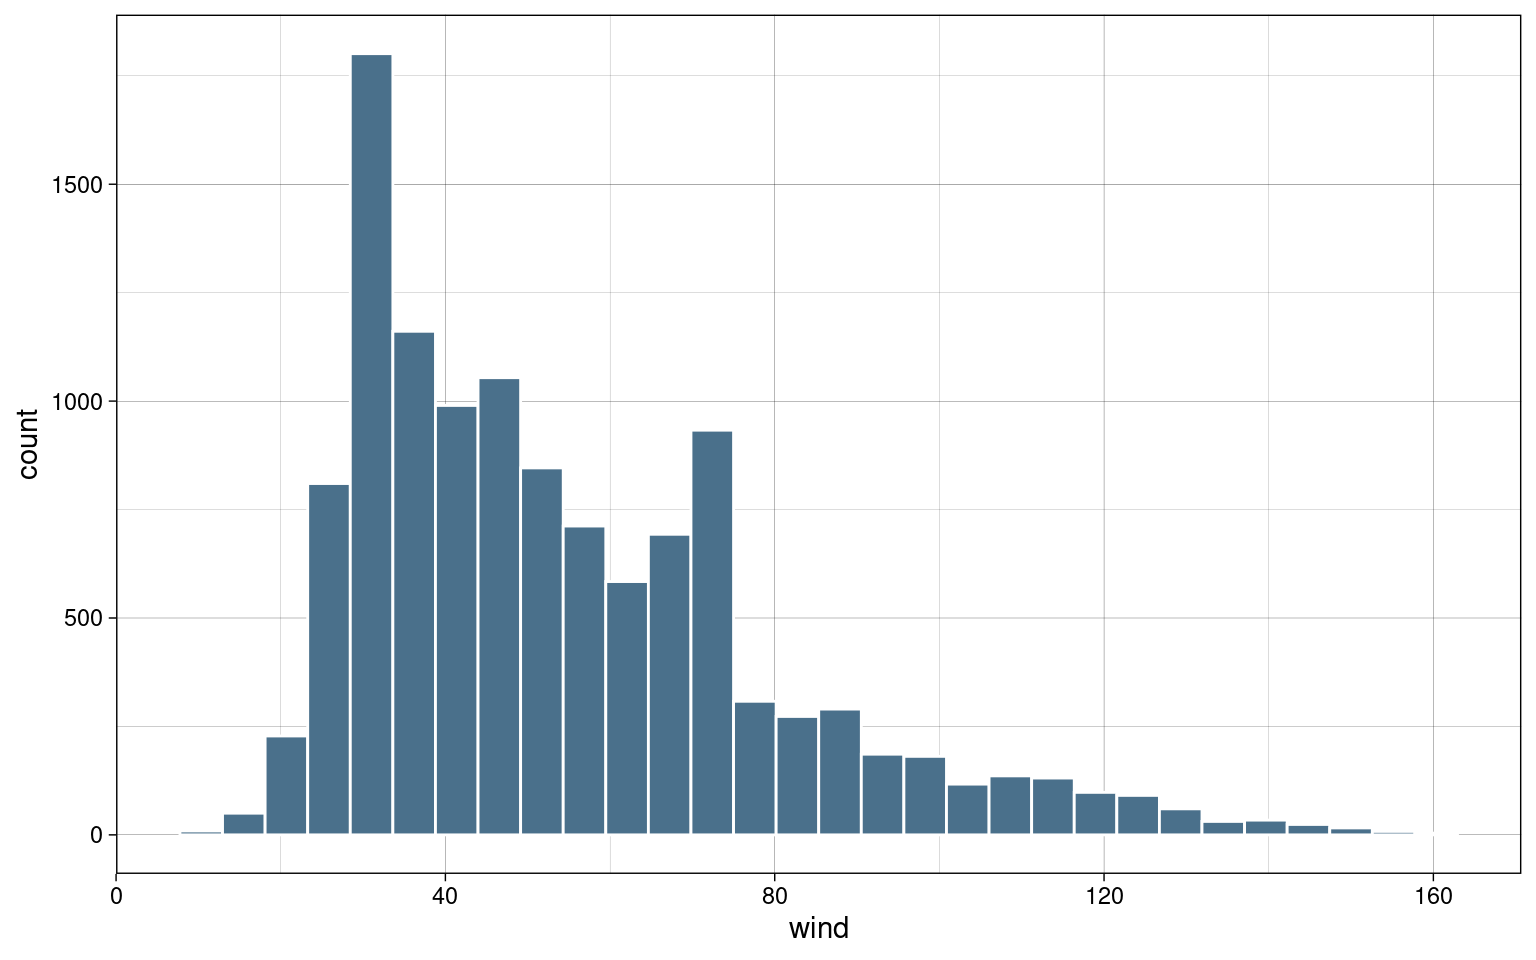
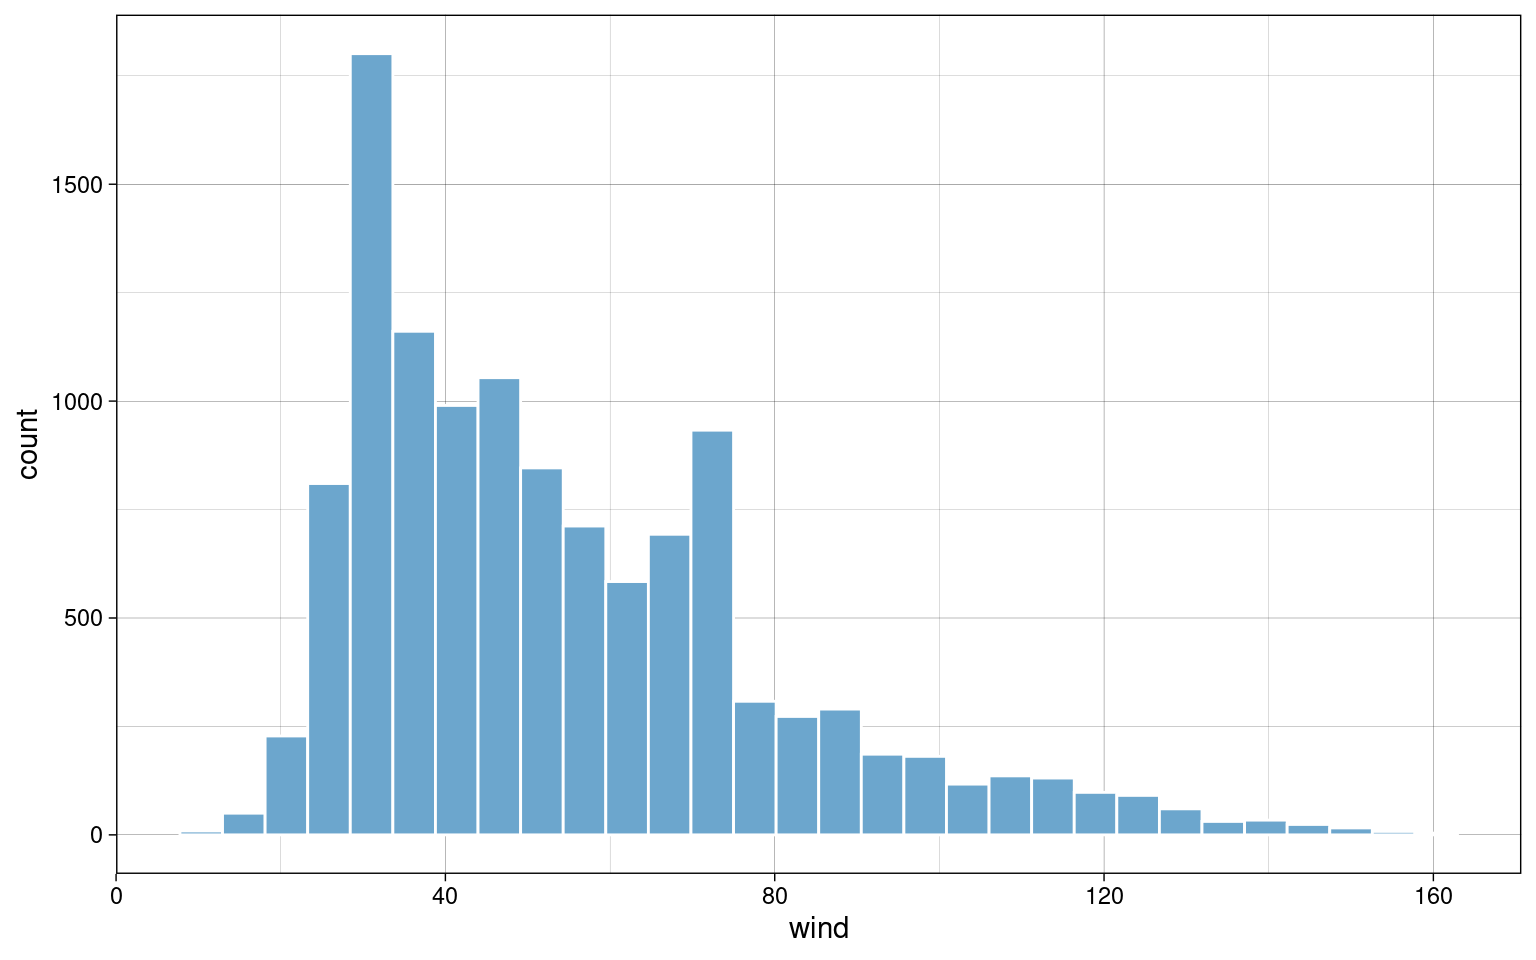
consolidate colors

Changed region(s): [[0.125, 0.0312, 0.9062, 0.875]]

diff --git a/_kompendium-statistik/statistik-2.html b/_kompendium-statistik/statistik-2.html
@@ -931,7 +931,9 @@ class="math inline">\(n = 20\)</span></p>
 ##  [7] -0.42856703  0.20527955  0.49423283  2.90465339  1.26359346 -0.29900925
 ## [13] -0.64765701  0.21053843  0.20078488  0.08848917  0.75222345 -0.39192113
 ## [19]  0.93568330 -0.73753842</code></pre>
-<pre class="r"><code>z.test(samples, mu = 0, sigma.x = 1, conf.level = 0.95, alternative = &quot;greater&quot;)</code></pre>
+<pre class="r"><code># Paket: BSDA
+
+z.test(samples, mu = 0, sigma.x = 1, conf.level = 0.95, alternative = &quot;greater&quot;)</code></pre>
 <pre><code>## 
 ##  One-sample z-Test
 ## 
@@ -1205,7 +1207,9 @@ t.result</code></pre>
 ##  118.1253  101.1334</code></pre>
 <p>Bestimmung der Konfidenzintervalle des Effekts (Cohen’s <span
 class="math inline">\(d\)</span>):</p>
-<pre class="r"><code>ci.smd(t.result$statistic,
+<pre class="r"><code># Paket: MBESS
+
+ci.smd(t.result$statistic,
        n.1 = length(samples1),
        n.2 = length(samples2),
        conf.level = 0.95)</code></pre>
@@ -1242,7 +1246,7 @@ class="math inline">\(\alpha\)</span>-Niveau und der minimale als
 signifikant akzeptierte Effekt bekannt sein.</p>
 <div id="stichprobenplanung-in-r" class="section level3">
 <h3>Stichprobenplanung in R</h3>
-<pre class="r"><code>library(pwr)
+<pre class="r"><code># Paket: pwr
 
 # post-hoc Power-Analyse für einseitigen Gauss-Test/Z-Test
 # - Stichproben-Signifikanztest
@@ -1292,10 +1296,10 @@ tibble(
   power5 = power(n, d = 0.7, alpha = 0.05),
   power1 = power(n, d = 0.7, alpha = 0.01),
   ) %&gt;% ggplot(aes(x = n, y = power)) +
-  geom_col(aes(y = power5), fill = &quot;skyblue3&quot;) +
-  geom_col(aes(y = power1), fill = &quot;hotpink3&quot;) +
-  annotate(&quot;text&quot;, label = &quot;alpha[1] == 0.05&quot;, parse = TRUE, x = 2, y = 0.95, color = &quot;skyblue3&quot;) +
-  annotate(&quot;text&quot;, label = &quot;alpha[2] == 0.01&quot;, parse = TRUE, x = 2, y = 0.90, color = &quot;hotpink3&quot;) +
+  geom_col(aes(y = power5), fill = colors[2]) +
+  geom_col(aes(y = power1), fill = colors[1]) +
+  annotate(&quot;text&quot;, label = &quot;alpha[1] == 0.05&quot;, parse = TRUE, x = 2, y = 0.95, color = colors[2]) +
+  annotate(&quot;text&quot;, label = &quot;alpha[2] == 0.01&quot;, parse = TRUE, x = 2, y = 0.90, color = colors[1]) +
   xlab(&quot;Stichprobengröße&quot;) +
   ylab(&quot;Power&quot;) +
   theme_custom</code></pre>
@@ -1910,10 +1914,10 @@ ggplot() +
   geom_function(fun = df, args = list(df1 = df_zw, df2 = df_inn)) +
   stat_function(fun = df, args = list(df1 = df_zw, df2 = df_inn),
                 geom = &quot;area&quot;,
-                fill = &quot;hotpink3&quot;, alpha = 0.3,
+                fill = colors[1], alpha = 0.3,
                 xlim = c(f_crit, 13)) +
-  geom_vline(xintercept = f_emp, color = &quot;skyblue3&quot;) +
-  annotate(&quot;text&quot;, label = paste(&quot;F =&quot;, round(f_emp,2)), x = 10, y = 0.025, hjust = 0, color = &quot;skyblue3&quot;) +
+  geom_vline(xintercept = f_emp, color = colors[2]) +
+  annotate(&quot;text&quot;, label = paste(&quot;F =&quot;, round(f_emp,2)), x = 10, y = 0.025, hjust = 0, color = colors[2]) +
   labs(x = &quot;F-Wert&quot;, y = &quot;Wahrscheinlichkeitsdichte&quot;) +
   theme_custom</code></pre>
 <p><img src="statistik-2_files/figure-html/unnamed-chunk-66-1.png" width="768" style="display: block; margin: auto;" /></p>
@@ -2169,7 +2173,7 @@ Regressionsgeraden, “Slope”</li>
 Residuen:</p>
 <pre class="r"><code>samples %&gt;% ggplot(aes(x = x, y = y - y_fit)) +
   geom_point() +
-  geom_segment(aes(xend = x, yend = 0), color = &quot;hotpink3&quot;, alpha = 0.4) +
+  geom_segment(aes(xend = x, yend = 0), color = colors[1], alpha = 0.4) +
   labs(y = &quot;Residuum&quot;) +
   theme_custom</code></pre>
 <p><img src="statistik-2_files/figure-html/unnamed-chunk-69-1.png" width="768" style="display: block; margin: auto;" /></p>

diff --git a/_kompendium-statistik/statistik-1.html b/_kompendium-statistik/statistik-1.html
@@ -826,7 +826,7 @@ Daten</li>
 </ul>
 <pre class="r"><code>data.long %&gt;%
   ggplot(aes(x = wind)) +
-  geom_histogram(bins = 30, color = &quot;white&quot;, fill = &quot;skyblue4&quot;) +
+  geom_histogram(bins = 30, color = &quot;white&quot;, fill = colors[2]) +
   theme_custom</code></pre>
 <p><img src="statistik-1_files/figure-html/unnamed-chunk-18-1.png" width="768" style="display: block; margin: auto;" /></p>
 <div id="kerndichteschätzer" class="section level3">
